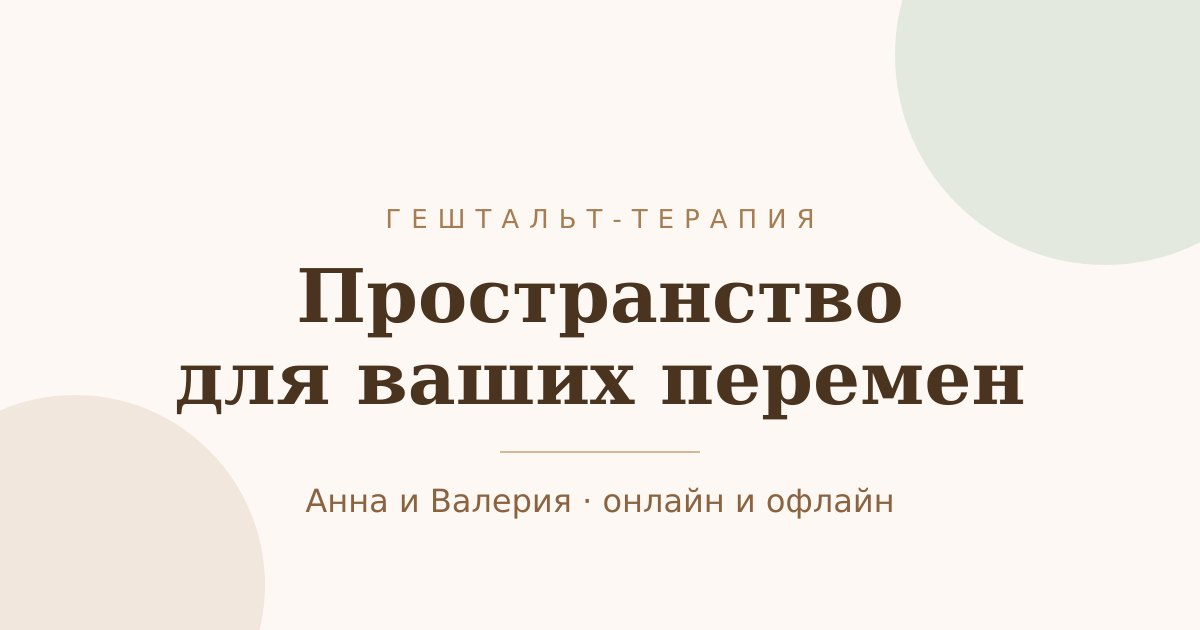
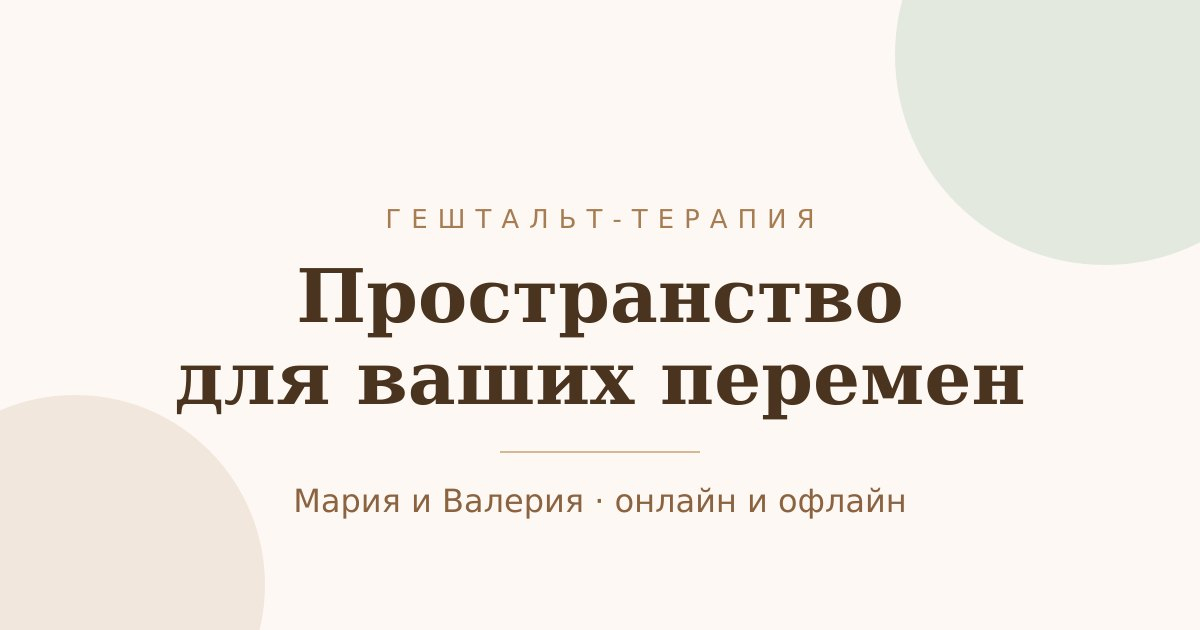
исправление фотографий, удаление ненужного текста под шапкой

Changed region(s): [[0.2467, 0.754, 0.7708, 0.8143]]

diff --git a/src/data/psychologists.ts b/src/data/psychologists.ts
@@ -16,6 +16,9 @@
 export interface PsychologistPhoto {
   src: string;
   alt: string;
+  /** Размеры файла — чтобы браузер верно зарезервировал место до загрузки. */
+  width: number;
+  height: number;
 }
 
 export interface Psychologist {
@@ -39,8 +42,8 @@ export interface Psychologist {
 
 export const psychologists: Psychologist[] = [
   {
-    id: 'anna',
-    name: 'Анна',
+    id: 'mariya',
+    name: 'Мария',
     subtitle: 'Гештальт-терапевт • Магистр психологии',
     bio: [
       'Я практикующий гештальт-терапевт и магистр психологии. Мне 41 год.',
@@ -48,8 +51,10 @@ export const psychologists: Psychologist[] = [
       'В терапии можно не знать, как правильно и всё равно постепенно находить своё.',
     ],
     photo: {
-      src: '/images/anna.webp',
-      alt: 'Портрет Анны, гештальт-терапевта',
+      src: '/images/Mariya.webp',
+      alt: 'Портрет Марии, гештальт-терапевта',
+      width: 836,
+      height: 1254,
     },
     accent: 'bg-warm-800 text-warm-100',
     fade: 'from-warm-800',
@@ -72,8 +77,10 @@ export const psychologists: Psychologist[] = [
     phone: '8 962 321 21 73',
     phoneHref: 'tel:+79623212173',
     photo: {
-      src: '/images/valeriya.webp',
+      src: '/images/Valeriya.webp',
       alt: 'Портрет Валерии, гештальт-практика',
+      width: 708,
+      height: 1061,
     },
     accent: 'bg-sage-800 text-sage-100',
     fade: 'from-sage-800',
@@ -84,7 +91,6 @@ export const psychologists: Psychologist[] = [
 export const site = {
   eyebrow: 'Гештальт-терапия',
   title: 'Пространство для ваших перемен',
-  tagline: 'Две практики. Два пути. Одна цель — помочь вам обрести себя.',
   footerTop: 'Гештальт-подход • Работа с телом и сознанием • Осознанность',
   footerBottom: 'Москва • Онлайн и офлайн',
 };

diff --git a/index.html b/index.html
@@ -4,10 +4,10 @@
     <meta charset="UTF-8" />
     <meta name="viewport" content="width=device-width, initial-scale=1.0" />
 
-    <title>Гештальт-терапия — психологи Анна и Валерия</title>
+    <title>Гештальт-терапия — психологи Мария и Валерия</title>
     <meta
       name="description"
-      content="Гештальт-терапия в Москве и онлайн. Анна — гештальт-терапевт, магистр психологии. Валерия — гештальт-практик, этнопсихолог, инструктор кундалини-йоги. Индивидуальная работа, мини-группы и коллективы."
+      content="Гештальт-терапия в Москве и онлайн. Мария — гештальт-терапевт, магистр психологии. Валерия — гештальт-практик, этнопсихолог, инструктор кундалини-йоги. Индивидуальная работа, мини-группы и коллективы."
     />
     <meta name="theme-color" content="#fdf8f4" />
 
@@ -17,10 +17,10 @@
     <meta property="og:type" content="website" />
     <meta property="og:site_name" content="Гештальт-терапия" />
     <meta property="og:locale" content="ru_RU" />
-    <meta property="og:title" content="Гештальт-терапия — психологи Анна и Валерия" />
+    <meta property="og:title" content="Гештальт-терапия — психологи Мария и Валерия" />
     <meta
       property="og:description"
-      content="Две практики. Два пути. Одна цель — помочь вам обрести себя. Работаем в Москве и онлайн."
+      content="Гештальт-терапия в Москве и онлайн. Индивидуальная работа, мини-группы и коллективы."
     />
     <meta property="og:image" content="/og-image.jpg" />
     <meta property="og:image:width" content="1200" />

diff --git a/src/components/PsychologistPhoto.tsx b/src/components/PsychologistPhoto.tsx
@@ -16,7 +16,7 @@ function initialsOf(name: string): string {
 
 export default function PsychologistPhoto({ psychologist }: PsychologistPhotoProps) {
   const [isBroken, setIsBroken] = useState(false);
-  const { src, alt } = psychologist.photo;
+  const { src, alt, width, height } = psychologist.photo;
 
   if (isBroken) {
     return (
@@ -37,8 +37,8 @@ export default function PsychologistPhoto({ psychologist }: PsychologistPhotoPro
       src={src}
       alt={alt}
       decoding="async"
-      width={800}
-      height={1000}
+      width={width}
+      height={height}
       onError={() => setIsBroken(true)}
       className="w-full h-full object-cover"
     />

diff --git a/src/App.tsx b/src/App.tsx
@@ -21,10 +21,6 @@ export default function App() {
             {site.title}
           </h1>
 
-          <p className="text-warm-600 text-sm sm:text-base md:text-lg font-light max-w-md mx-auto leading-relaxed">
-            {site.tagline}
-          </p>
-
           <div className="mt-6 sm:mt-8 flex items-center justify-center gap-2 text-warm-400">
             <svg
               className="w-4 h-4 animate-bounce motion-reduce:animate-none"

diff --git a/README.md b/README.md
@@ -52,12 +52,16 @@ Node.js 18+ (проверено на 22), npm 9+.
 ├── eslint.config.js          # ESLint flat config
 ├── index.html                # HTML-шаблон, мета-теги, OG-теги
 ├── package.json
+├── photos-source/            # оригиналы фото и исходник OG-картинки (в dist/ НЕ попадают)
+│   ├── Mariya.jpeg
+│   ├── Valeriya.jpeg
+│   └── og-image.svg
 ├── public/
 │   ├── favicon.svg
 │   ├── og-image.jpg          # 1200×630 — превью ссылки в мессенджерах
 │   └── images/               # ← СЮДА КЛАДЁТЕ СВОИ ФОТОГРАФИИ
-│       ├── anna.webp
-│       └── valeriya.webp
+│       ├── Mariya.webp
+│       └── Valeriya.webp
 ├── src/
 │   ├── App.tsx               # Сборка страницы
 │   ├── main.tsx              # Точка входа
@@ -74,41 +78,61 @@ Node.js 18+ (проверено на 22), npm 9+.
 
 ## 🖼 Как загрузить свои фотографии
 
-1. Положите файл в `public/images/` — например `public/images/anna.webp`.
+1. Положите файл в `public/images/` — например `public/images/portrait.jpg`.
    Файлы из `public/` копируются в `dist/` как есть и отдаются по пути
-   `/images/anna.webp`.
+   `/images/portrait.jpg`. Имя файла может быть любым — важно только чтобы оно
+   совпадало с тем, что указано в данных (регистр букв тоже важен на Linux).
 2. Пропишите путь в `src/data/psychologists.ts`:
 
    ```ts
    photo: {
-     src: '/images/anna.webp',        // путь от корня сайта, без public/
-     alt: 'Портрет Анны, гештальт-терапевта',
+     src: '/images/portrait.jpg',   // путь от корня сайта, без public/
+     alt: 'Портрет Марии, гештальт-терапевта',
+     width: 836,                    // размеры файла — см. пункт про object-cover
+     height: 1254,
    },
    ```
 
 3. Готово. Больше нигде путь к картинке не упоминается.
 
 **Если картинки нет или она не загрузилась** — вместо неё показывается
-аккуратная заглушка с инициалами, сайт при этом не ломается.
+аккуратная заглушка с инициалами, сайт при этом не ломается. Такое же происходит,
+если в `src` попал неверный путь: Vite отдаст по нему `index.html`, картинка не
+раскодируется и включится заглушка.
 
 ### Требования к фотографии
 
 - Формат: **WebP** (лучший баланс качества и веса), подойдут также JPG и PNG
-- Соотношение сторон: **4:5** (портрет)
+- Соотношение сторон: примерно **4:5** (портрет)
 - Ширина: 800–1200 px
-- Вес: до 200 КБ
+- Вес: желательно до 200 КБ
 
 Обрезать и сжать:
 
 ```bash
 # через npx (ничего не ставится глобально)
-npx --yes sharp-cli@5 -i photo.jpg -o public/images/anna.webp -f webp -q 82
+npx --yes sharp-cli@5 -i photo.jpg -o public/images/portrait.webp -f webp -q 82
 
 # или воспользуйтесь онлайн-сервисами: squoosh.app, tinypng.com
 ```
 
-Исходные фото, отдаваемые браузеру, **не** растягиваются и не обрезаются
-красиво: используется `object-cover`, поэтому кадрируйте заранее.
+Сжатие л lossy: если результат не устроит, вернитесь к оригиналу. Поэтому
+необработанные файлы кладите в **`photos-source/`**, а не в `public/` — из `public/`
+они попадут в `dist/` и уедут на хостинг вместе с сайтом. Текущие оригиналы
+(`Mariya.jpeg` 318 КБ и `Valeriya.jpeg` 185 КБ) дают после сжатия 73 КБ и 29 КБ.
+
+Поменять `og-image.jpg` можно через исходник `photos-source/og-image.svg`:
+
+```bash
+# отредактируйте SVG (текст, цвета) и пересоберите картинку
+npx --yes sharp-cli@5 -i photos-source/og-image.svg -o public/og-image.jpg -f jpeg -q 86
+```
+
+Фото показывается через `object-cover`: кадр вписывается в карточку по большей
+стороне, лишнее обрезается по центру. Если важное оказалось срезано —
+исправьте это в самом файле, изменить кадрирование одой настройкой нельзя.
+Текущий кадр проверяется на реальных устройствах: для двухпанельных снимков
+центрирование может разрезать композицию.
 
 ## ✏ Как поменять тексты и другие данные
 
@@ -117,8 +141,8 @@ npx --yes sharp-cli@5 -i photo.jpg -o public/images/anna.webp -f webp -q 82
 ```ts
 export const psychologists: Psychologist[] = [
   {
-    id: 'anna',
-    name: 'Анна',
+    id: 'mariya',
+    name: 'Мария',
     subtitle: 'Гештальт-терапевт • Магистр психологии',
     bio: [
       'Первый абзац.',
@@ -126,7 +150,7 @@ export const psychologists: Psychologist[] = [
     ],
     phone: '8 962 321 21 73',        // как показывать
     phoneHref: 'tel:+79623212173',   // как звонить (E.164, без пробелов)
-    photo: { src: '/images/anna.webp', alt: '...' },
+    photo: { src: '/images/portrait.jpg', alt: '...' },
     accent: 'bg-warm-800 text-warm-100',  // цвета рубашки карточки
     fade: 'from-warm-800',                 // цвет подсказки «есть что дочитать»
     delay: 300,                            // задержка появления, мс
@@ -148,7 +172,7 @@ export const psychologists: Psychologist[] = [
 
 Блок `@theme` в `src/index.css`. Две палитры:
 
-- `warm-*` — тёплая (фон сайта, рубашка карточки Анны)
+- `warm-*` — тёплая (фон сайта, рубашка карточки Марии)
 - `sage-*` — зелёная (рубашка карточки Валерии)
 
 ```css
@@ -284,4 +308,4 @@ npx vercel --prod                          # Vercel
 
 ---
 
-**Создано с ❤ для психологов Анны и Валерии**
+**Создано с ❤ для психологов Марии и Валерии**

diff --git a/photos-source/README.md b/photos-source/README.md
@@ -1,0 +1,3 @@
+# Оригиналы фотографий (до сжатия в WebP)
+# Сюда кладутся исходные файлы — в dist/ они не попадают.
+# Сайт использует сжатые версии из public/images/.
